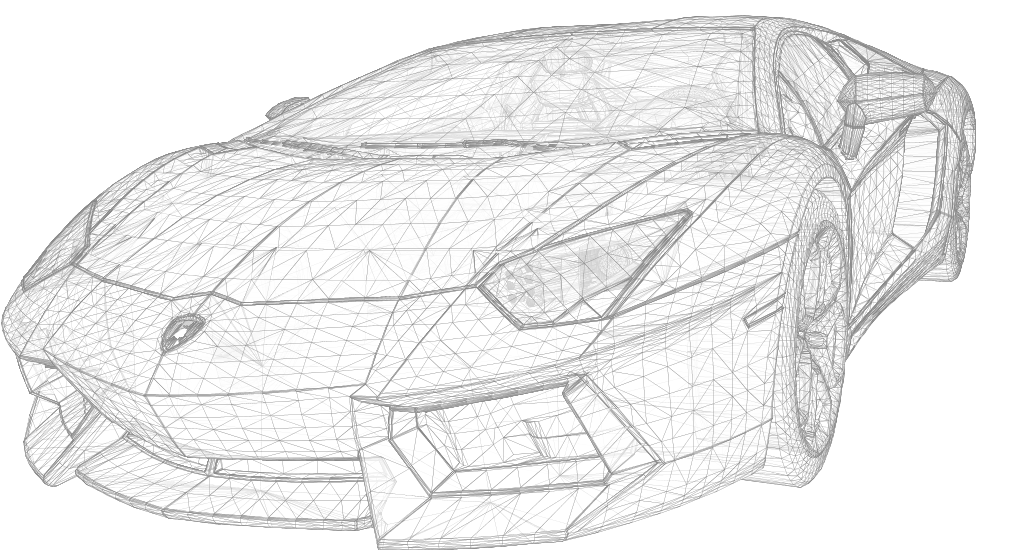
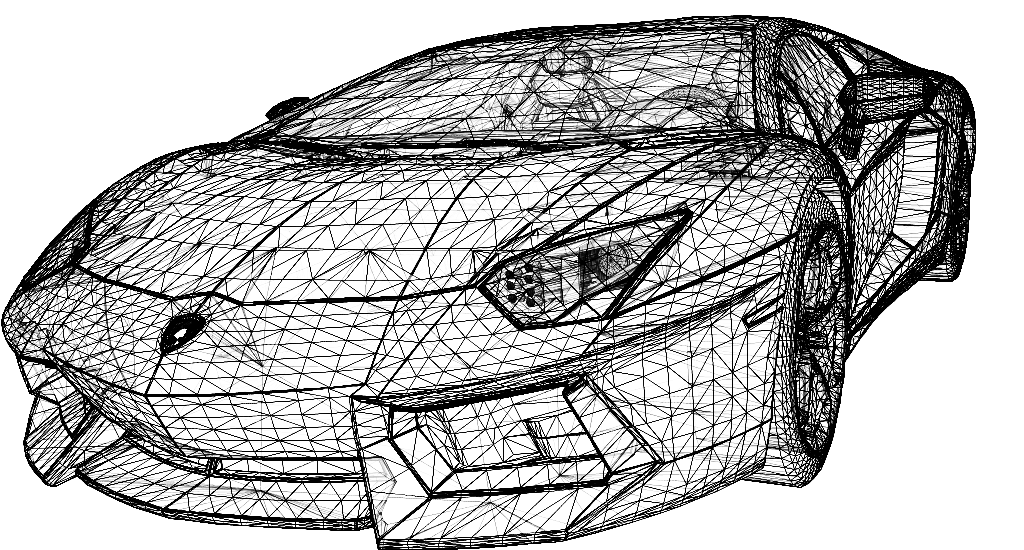
Finalizacao do layout

diff --git a/public/index.html b/public/index.html
@@ -1,43 +1,17 @@
 <!DOCTYPE html>
 <html lang="en">
   <head>
-    <meta charset="utf-8" />
-    <link rel="icon" href="%PUBLIC_URL%/favicon.ico" />
-    <meta name="viewport" content="width=device-width, initial-scale=1" />
-    <meta name="theme-color" content="#000000" />
-    <meta
-      name="description"
-      content="Web site created using create-react-app"
-    />
-    <link rel="apple-touch-icon" href="%PUBLIC_URL%/logo192.png" />
-    <!--
-      manifest.json provides metadata used when your web app is installed on a
-      user's mobile device or desktop. See https://developers.google.com/web/fundamentals/web-app-manifest/
-    -->
-    <link rel="manifest" href="%PUBLIC_URL%/manifest.json" />
-    <!--
-      Notice the use of %PUBLIC_URL% in the tags above.
-      It will be replaced with the URL of the `public` folder during the build.
-      Only files inside the `public` folder can be referenced from the HTML.
-
-      Unlike "/favicon.ico" or "favicon.ico", "%PUBLIC_URL%/favicon.ico" will
-      work correctly both with client-side routing and a non-root public URL.
-      Learn how to configure a non-root public URL by running `npm run build`.
-    -->
-    <title>React App</title>
+    <meta charset="utf-8">
+    <meta name="viewport" content="width=device-width, initial-scale=1, shrink-to-fit=no">
+    <meta name="theme-color" content="#000000">
+    <link rel="manifest" href="%PUBLIC_URL%/manifest.json">
+    <link rel="shortcut icon" href="%PUBLIC_URL%/favicon.ico">
+    <title>TradersClub Test</title>
   </head>
   <body>
-    <noscript>You need to enable JavaScript to run this app.</noscript>
+    <noscript>
+      You need to enable JavaScript to run this app.
+    </noscript>
     <div id="root"></div>
-    <!--
-      This HTML file is a template.
-      If you open it directly in the browser, you will see an empty page.
-
-      You can add webfonts, meta tags, or analytics to this file.
-      The build step will place the bundled scripts into the <body> tag.
-
-      To begin the development, run `npm start` or `yarn start`.
-      To create a production bundle, use `npm run build` or `yarn build`.
-    -->
   </body>
 </html>

diff --git a/src/containers/skeleton/index.jsx b/src/containers/skeleton/index.jsx
@@ -1,7 +1,7 @@
 import React from 'react';
 import SideMenu from '../../components/SideMenu';
+import Header from '../../components/Header';
 import '../../assets/styles/Skeleton.css';
-
 
 class Skeleton extends React.Component {
   render() {
@@ -11,7 +11,9 @@ class Skeleton extends React.Component {
         <SideMenu />
         <div class="contentContainer">
           <Header />
-          {children}
+          <div class="contentArea">
+            {children}
+          </div>
         </div>
       </div>
     );

diff --git a/src/components/Header/index.jsx b/src/components/Header/index.jsx
@@ -1,0 +1,19 @@
+import React from 'react';
+import InputField from '../../components/InputField';
+import Button from '../../components/Button';
+import '../../assets/styles/Header.css';
+
+class Header extends React.Component {
+  render() {
+    return (
+      <div class="headerContainer">
+        <InputField
+          placeholder="Pesquise por um veículo"
+        />
+        <Button>Cadastrar</Button>
+      </div>
+    );
+  }
+}
+
+export default Header;

diff --git a/src/assets/styles/Skeleton.css b/src/assets/styles/Skeleton.css
@@ -1,7 +1,16 @@
 .mainContainer {
-    display: flex;
+  display: flex;
 }
 
 .contentContainer {
-    
+  width: 100%;
+  background-color: #1f2e40;
+}
+
+.contentArea {
+  width: 100%;
+  height: calc(100% - 105px);
+  display: flex;
+  background: url('../img/car-wireframe.png') no-repeat;
+  background-position: center;
 }

diff --git a/src/components/Button/index.jsx b/src/components/Button/index.jsx
@@ -1,0 +1,16 @@
+import React from 'react';
+import '../../assets/styles/Button.css';
+
+
+class Button extends React.Component {
+  render() {
+    const { children } = this.props;
+    return (
+      <button class="defaultButton">
+        {children}
+      </button>
+    );
+  }
+}
+
+export default Button;

diff --git a/src/components/InputField/index.jsx b/src/components/InputField/index.jsx
@@ -1,0 +1,13 @@
+import React from 'react';
+import '../../assets/styles/InputField.css';
+
+
+class InputField extends React.Component {
+  render() {
+    return (
+      <input type="text" class="searchInput" />
+    );
+  }
+}
+
+export default InputField;

diff --git a/src/assets/styles/InputField.css b/src/assets/styles/InputField.css
@@ -1,0 +1,10 @@
+.searchInput {
+    width: 100%;
+    padding: 12px;
+    margin: 12px;
+    font-size: 18px;
+    color: #fff;
+    background-color:  transparent;
+    border: 1px solid #fff;
+    border-radius: 6px;
+}

diff --git a/src/assets/styles/Button.css b/src/assets/styles/Button.css
@@ -1,0 +1,9 @@
+.defaultButton {
+    background-color: #fff;
+    border-radius: 6px;
+    margin: 12px;
+    padding: 12px;
+    color: black;
+    font-weight: bold;
+    font-size: 16px;
+}

diff --git a/src/containers/App/index.js b/src/containers/App/index.js
@@ -1,5 +1,5 @@
 import React, { Component } from 'react';
-import Skeleton from '../skeleton';
+import Skeleton from '../Skeleton';
 
 import '../../assets/styles/Shared.css';
 

diff --git a/src/assets/styles/Header.css b/src/assets/styles/Header.css
@@ -1,0 +1,5 @@
+.headerContainer {
+    background-color: #1a2533;
+    padding: 12px;
+    display: flex;
+}
